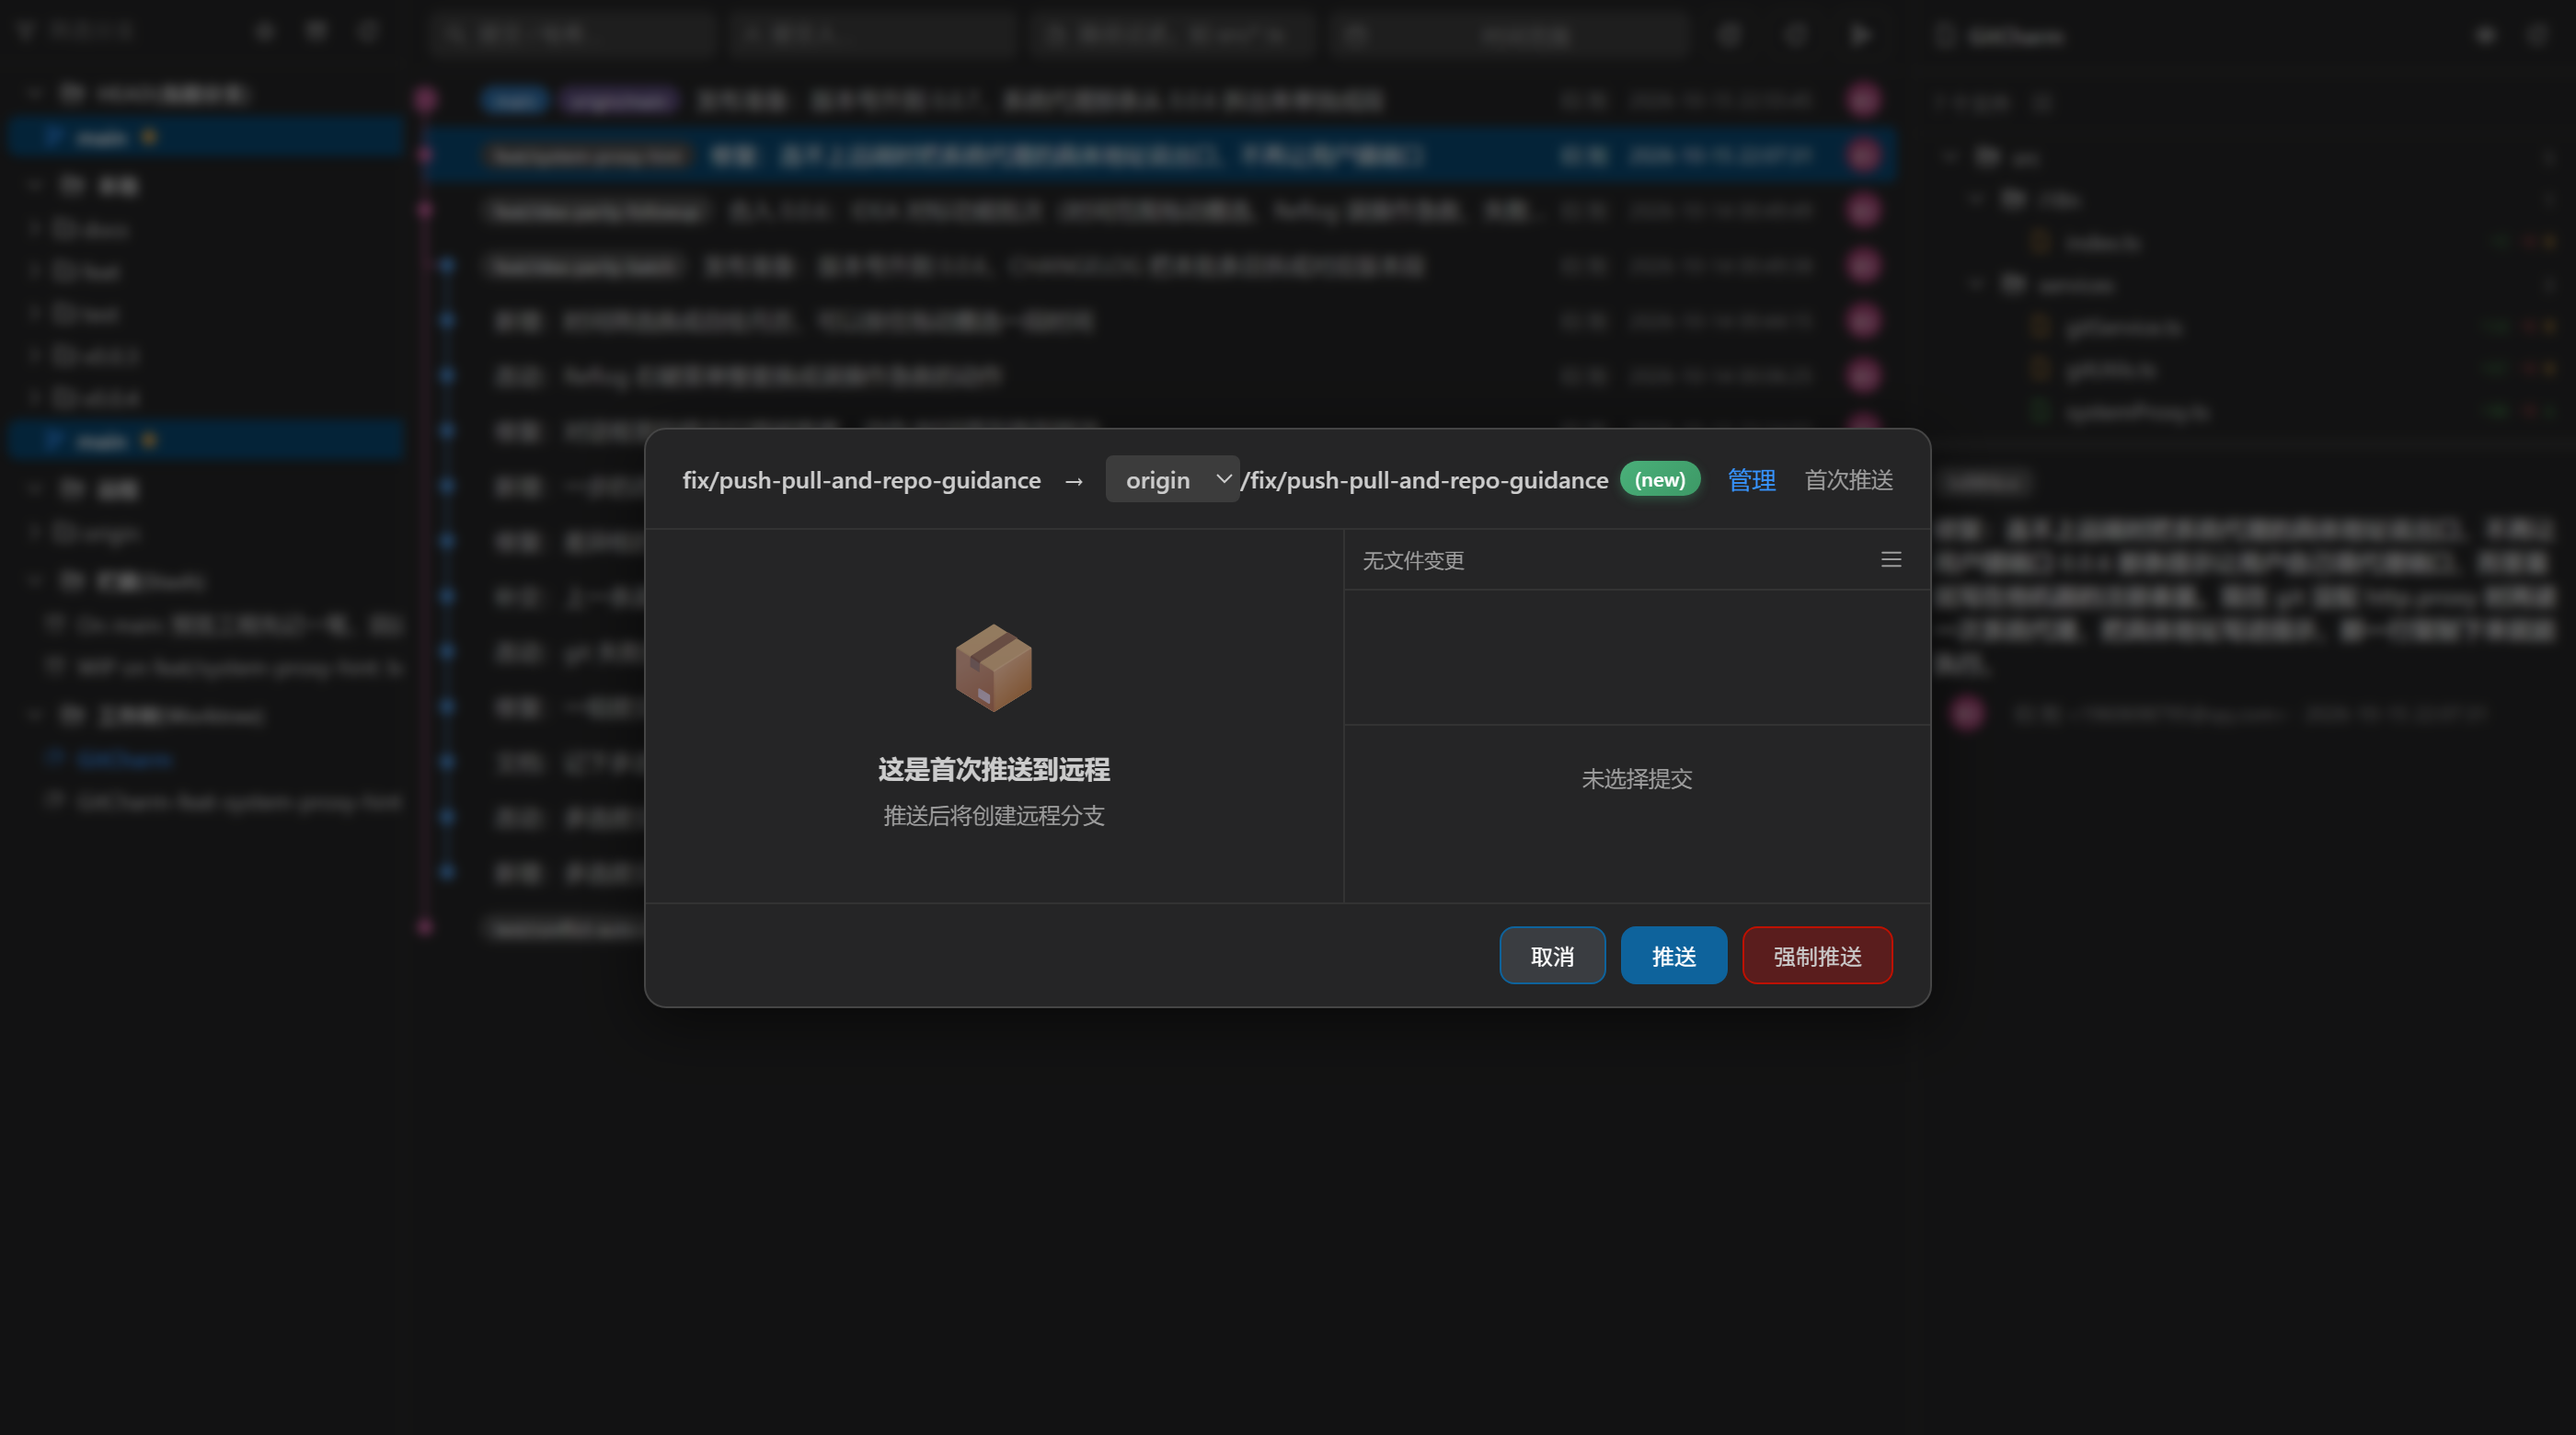
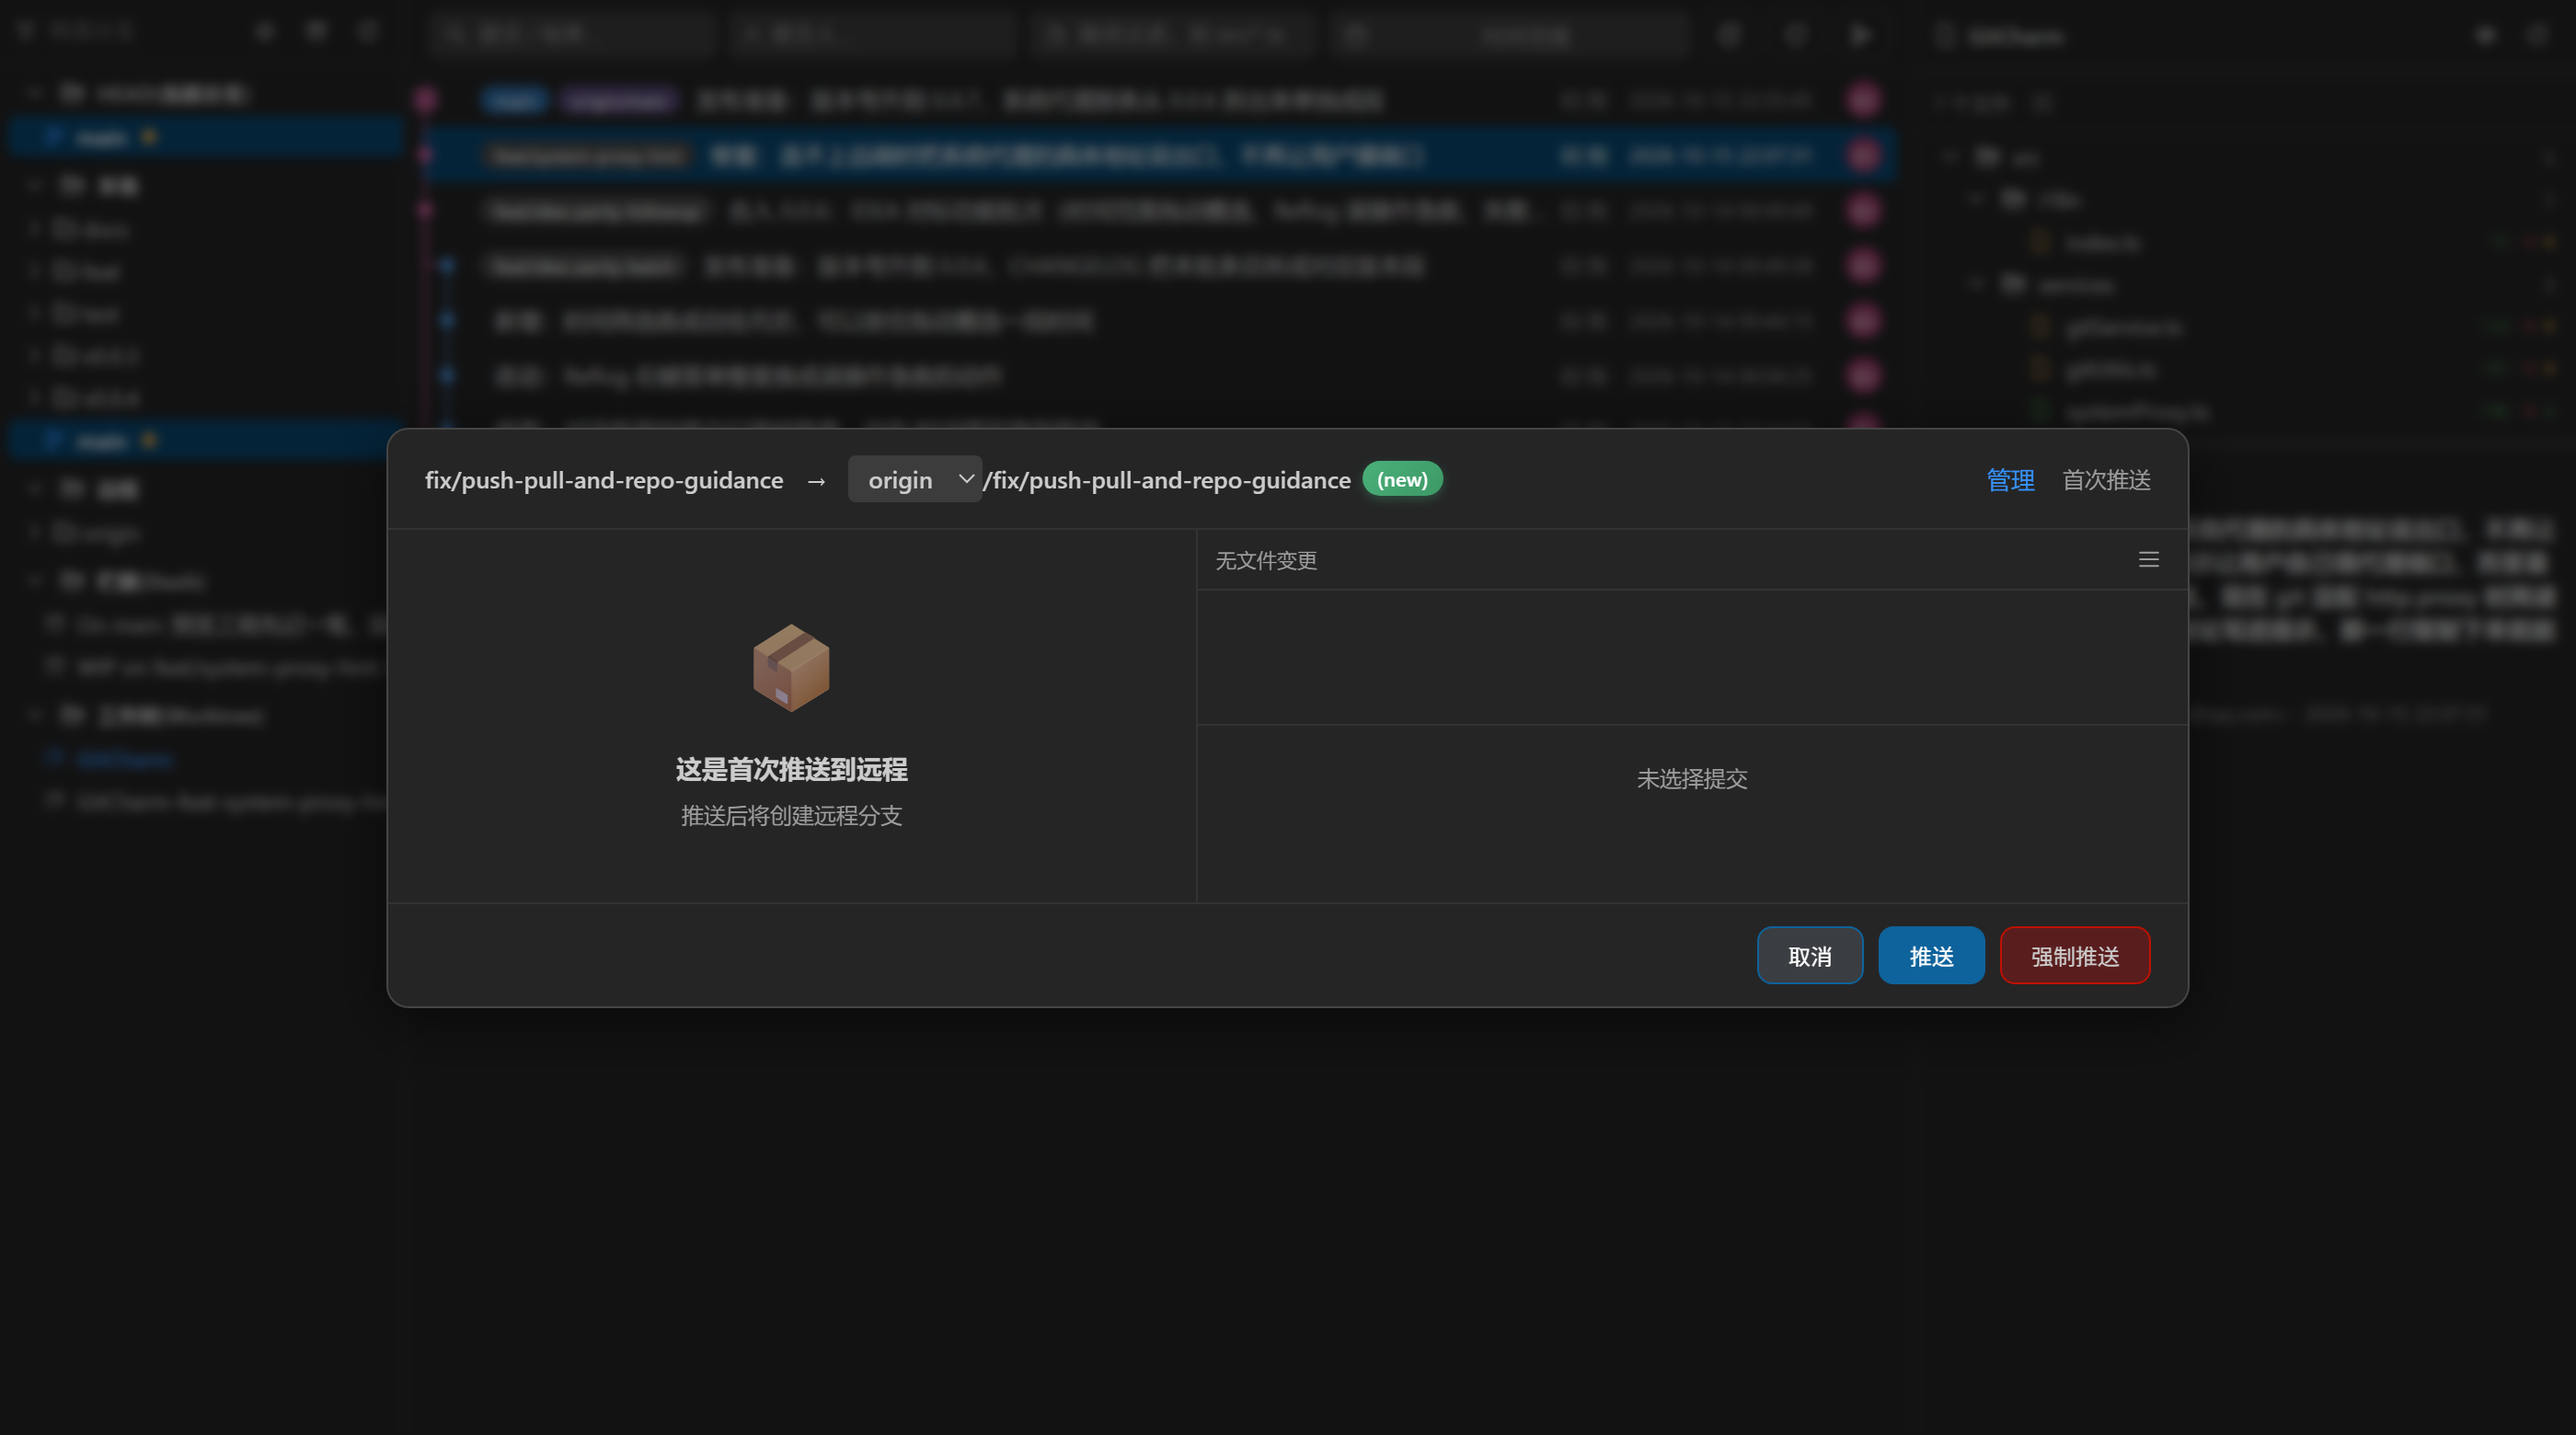
界面：推送对话框加宽让提交消息少截断，"管理"归到右侧状态组
700px 的对话框里提交消息只剩十来个字符就省略号，右侧文件树也挤得看不出层级；
放宽到 min(980px, 92vw)，提交列 380→440px 并加百分比上限，窄面板下不会把文件栏挤没。
单栏对话框（reflog、文件历史）沿用同一条列表样式，补 max-width:none 收回整幅宽度。
"管理"管的是远端，从目标路径和 (new) 徽章中间挪到右侧和提交数成组。

diff --git a/media/webview.css b/media/webview.css
@@ -1543,8 +1543,8 @@ canvas.graph-canvas {
     background: var(--vscode-editorWidget-background, #252526);
     border: 1px solid var(--vscode-widget-border, #454545);
     border-radius: 12px;
-    width: 700px;
-    max-width: 90vw;
+    /* min() keeps the box inside a narrow webview without a separate max-width. */
+    width: min(980px, 92vw);
     max-height: 80vh;
     display: flex;
     flex-direction: column;
@@ -1594,7 +1594,6 @@ canvas.graph-canvas {
     text-overflow: ellipsis;
 }
 .push-head-count {
-    margin-left: auto;
     flex: none;
     white-space: nowrap;
     font-weight: normal;
@@ -1622,8 +1621,9 @@ canvas.graph-canvas {
 }
 
 .push-remote-manage {
-    /* The header row already gaps its items; an extra left margin just widened it. */
-    margin-left: 0;
+    /* The link manages the remote, so it sits with the right-hand status group
+       instead of wedged between the target path and its (new) badge. */
+    margin-left: auto;
     padding: 1px 6px;
     border: 1px solid transparent;
     border-radius: 4px;
@@ -1686,7 +1686,10 @@ canvas.graph-canvas {
     overflow: hidden;
 }
 .push-commits-list {
-    width: 380px;
+    /* The percentage cap keeps both columns inside the box on a narrow webview;
+       a fixed width alone would push the file panel out entirely. */
+    width: 440px;
+    max-width: 56%;
     flex: none;
     min-width: 0;
     border-right: 1px solid var(--vscode-panel-border, #333);
@@ -1697,6 +1700,9 @@ canvas.graph-canvas {
 /* Single-column variant used by the file history dialog (no side file panel) */
 .push-commits-list.full {
     width: auto;
+    /* Single-column dialogs (reflog, file history) own the whole body, so the
+       two-column cap above must not apply here. */
+    max-width: none;
     flex: 1;
     border-right: none;
 }
